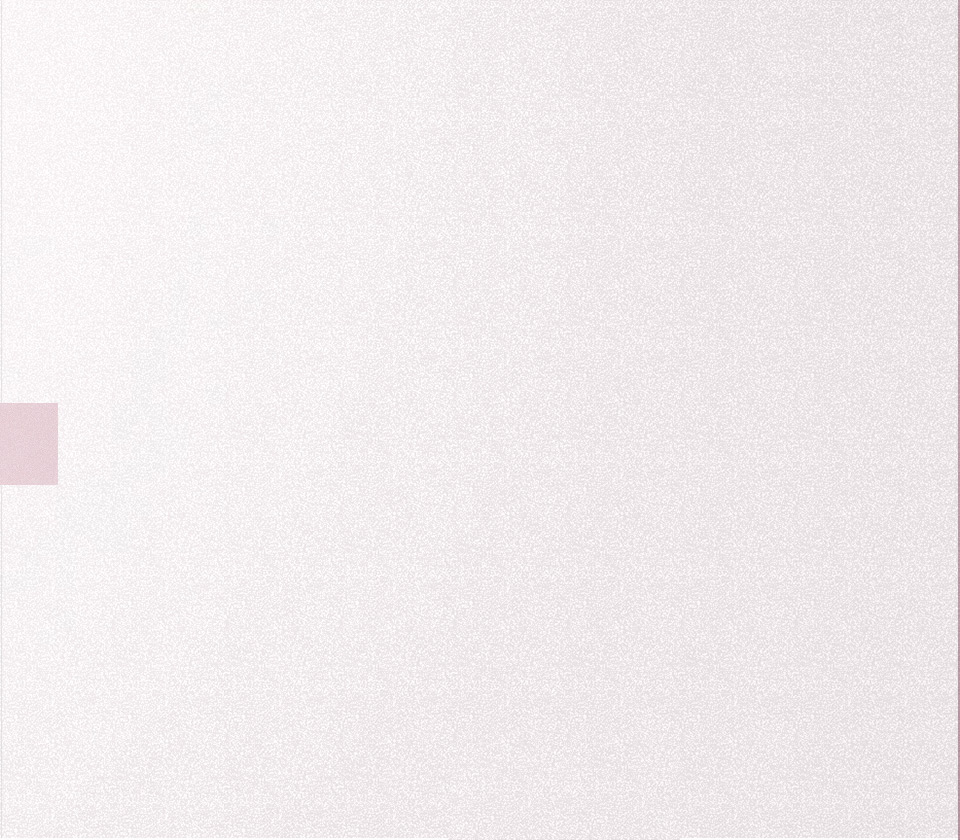
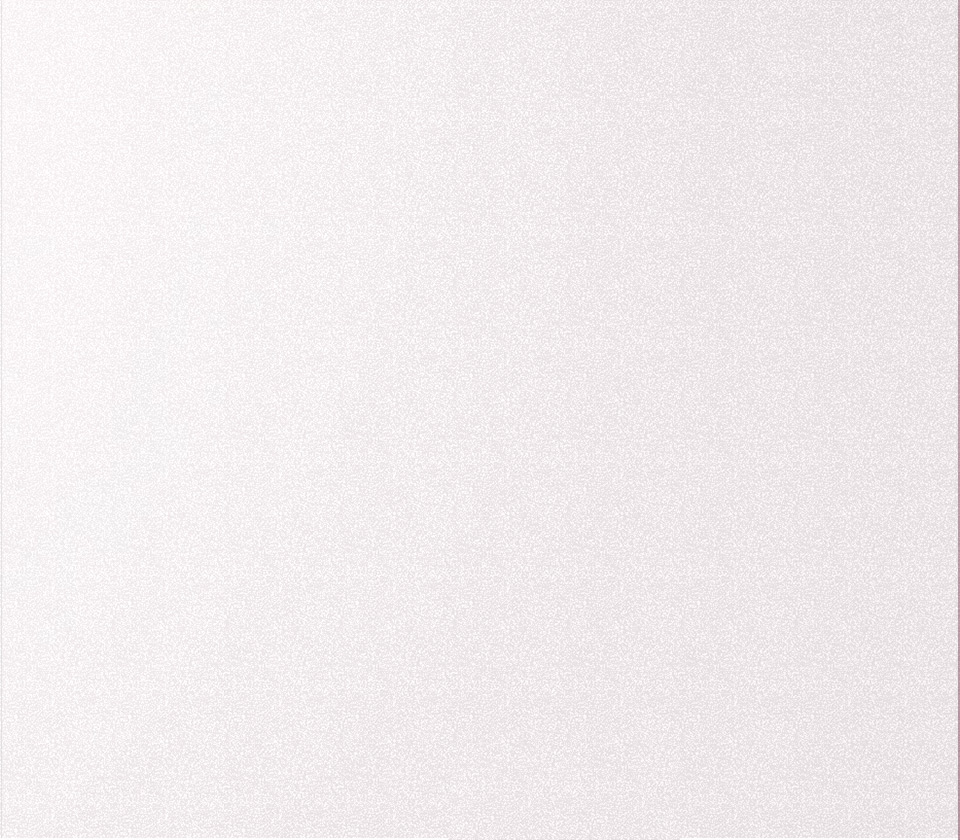
丝带动画

Changed region(s): [[0.0, 0.4643, 0.0625, 0.5881]]

diff --git a/src/loveday/js/loveday.js b/src/loveday/js/loveday.js
@@ -2,7 +2,7 @@
     var resData = {
         "groups":[
             {
-                "keys":"loading-bg-left_jpg,loading-bg-right_jpg,title_png",
+                "keys":"loading-bg-left_jpg,loading-bg-right_jpg,title_png,sidai_png",
                 "name":"pre"
             },
             {
@@ -10,6 +10,11 @@
                 "name":"res"
             }],
         "resources":[
+            {
+                "name":"sidai_png",
+                "type":"image",
+                "url":"lv2/sidai.png"
+            },
             {
                 "name":"buybtn-disable_png",
                 "type":"image",
@@ -394,6 +399,8 @@
         ,winWidth
         ,winHeight
         ,viewHeight
+        ,resLoaded = false
+        ,moveClipEnd = false
     function initDomByScreenHeight(){
         headerHeight = $header.height();
         winWidth = $win.width();
@@ -440,8 +447,7 @@
     }
 
     function animateLoading(callback){
-        $('#evt_loading .title').fadeOut();
-        $('#evt_spin').fadeOut(function(){
+        $('#evt_spin,#evt_loading .title,#sidaiLeft,#sidaiRight').fadeOut(function(){
             $win.scrollTop(0)
             $('#evt_loading .bg-left').animate({
                 right: '100%'
@@ -455,6 +461,38 @@
         })
     }
 
+    function resourceComplete(){
+        if(moveClipEnd && resLoaded){
+            $('#blankdiv').show();
+            $('#evt_content').show();
+            $('.flower').parallax({
+                elementWidth : 1000,
+                elementHeight : 1000
+            });
+            // initRule();
+            initScroll();
+            animateLoading(function(){
+                bindScroll('#evt_container')
+            });
+        }
+    }
+
+    function startMovieClip(){
+        var data = {
+            c1: {"x":130,"y":64,"w":124,"h":55,"offX":4,"offY":9,"sourceW":130,"sourceH":185, duration:5},
+            c2: {"x":130,"y":0,"w":124,"h":62,"offX":4,"offY":13,"sourceW":130,"sourceH":185,duration:1},
+            c3: {"x":127,"y":280,"w":125,"h":95,"offX":4,"offY":14,"sourceW":130,"sourceH":185,duration:2},
+            c4: {"x":127,"y":163,"w":124,"h":115,"offX":4,"offY":15,"sourceW":130,"sourceH":185},
+            c5: {"x":0,"y":163,"w":125,"h":131,"offX":4,"offY":15,"sourceW":130,"sourceH":185},
+            c6: {"x":0,"y":0,"w":128,"h":161,"offX":1,"offY":13,"sourceW":130,"sourceH":185,duration:10}
+        }
+        new MovieClip('sidai_png', data, 'c', $('#sidaiLeft div').get(0)).gotoAndPlay(1, 1, 10);
+        new MovieClip('sidai_png', data, 'c', $('#sidaiRight div').get(0)).gotoAndPlay(1, 1, 10).on('complete', function(){
+            moveClipEnd = true;
+            resourceComplete();
+        });
+    }
+
     function loadRes(){
         var loader = new Resource.loadGroup("res", resData);
         var spin = Resource.el('#evt_spin');
@@ -462,17 +500,8 @@
             spin.innerHTML = Math.floor(loaded / total * 100) + "%";
         });
         loader.on("complete", function(){
-            $('#blankdiv').show();
-            $('#evt_content').show();
-            $('.flower').parallax({
-                elementWidth : 1000,
-                elementHeight : 1000
-            });
-            initRule();
-            initScroll();
-            animateLoading(function(){
-                bindScroll('#evt_container')
-            });
+            resLoaded = true;
+            resourceComplete();
         });
     }
 
@@ -481,6 +510,7 @@
 
         loader.on("complete", function(){
             loadRes();
+            startMovieClip();
         });
     }
     initDomByScreenHeight();

diff --git a/src/loveday/index2.html b/src/loveday/index2.html
@@ -91,6 +91,8 @@
         <div class="bg-right"><img src="images/lv2/loading-bg-right.jpg" alt=""></div>
         <div class="title"><img src="images/lv2/title.png" alt=""></div>
         <span id="evt_spin" class="percent">0%</span>
+        <div id="sidaiLeft"><div></div></div>
+        <div id="sidaiRight"><div></div></div>
     </div>
     <div id="evt_content" style="display:none;">
         <div class="section sec1">
@@ -114,7 +116,7 @@
                     <p>活动规则</p>
                     <i></i>
                 </div>
-                <div class="rule" style="display:none;">
+                <div class="rule">
                     <p>1、活动时间：2017年 2月4日——2月17日</p>
                     <p>2、活动城市：上海、苏州、杭州</p>
                     <p>3、凡订购唯爱-约瑟芬玫瑰即可在提交订单后扫描二维码，使用手机进行录音或利用文字对收货人进行传情，录音内容限60s以内，文字内容限140字。录音跟文字均可以在蛋糕生产前进行修改。</p>

diff --git a/src/loveday/sass/loveday.scss b/src/loveday/sass/loveday.scss
@@ -12,6 +12,11 @@
   .percent{display:block; width:100%; position:absolute; text-align:center; left:0; top:50%; margin:-10px 0 0 0; font-size:18px; color:#bd7384;}
 }
 
+#sidaiLeft,#sidaiRight{width:65px; height:185px; position:absolute; top:50%; left:50%; overflow:hidden; margin-top:15px;}
+#sidaiLeft{margin-left:-65px;}
+#sidaiLeft div, #sidaiRight div{width:130px; height:185px; position:absolute; top:0; left:0;}
+#sidaiRight div{left:-65px;}
+
 #evt_content{z-index:10;
   .section{position:absolute; top:0; left:0; width:100%; height:840px; background:url(../images/lv2/content-bg.jpg) 50% 0;
     p{color:#ffffff; font-size:12px;}

diff --git a/src/loveday/css/loveday.css b/src/loveday/css/loveday.css
@@ -71,6 +71,32 @@
   color: #bd7384;
 }
 
+#sidaiLeft, #sidaiRight {
+  width: 65px;
+  height: 185px;
+  position: absolute;
+  top: 50%;
+  left: 50%;
+  overflow: hidden;
+  margin-top: 15px;
+}
+
+#sidaiLeft {
+  margin-left: -65px;
+}
+
+#sidaiLeft div, #sidaiRight div {
+  width: 130px;
+  height: 185px;
+  position: absolute;
+  top: 0;
+  left: 0;
+}
+
+#sidaiRight div {
+  left: -65px;
+}
+
 #evt_content {
   z-index: 10;
 }
